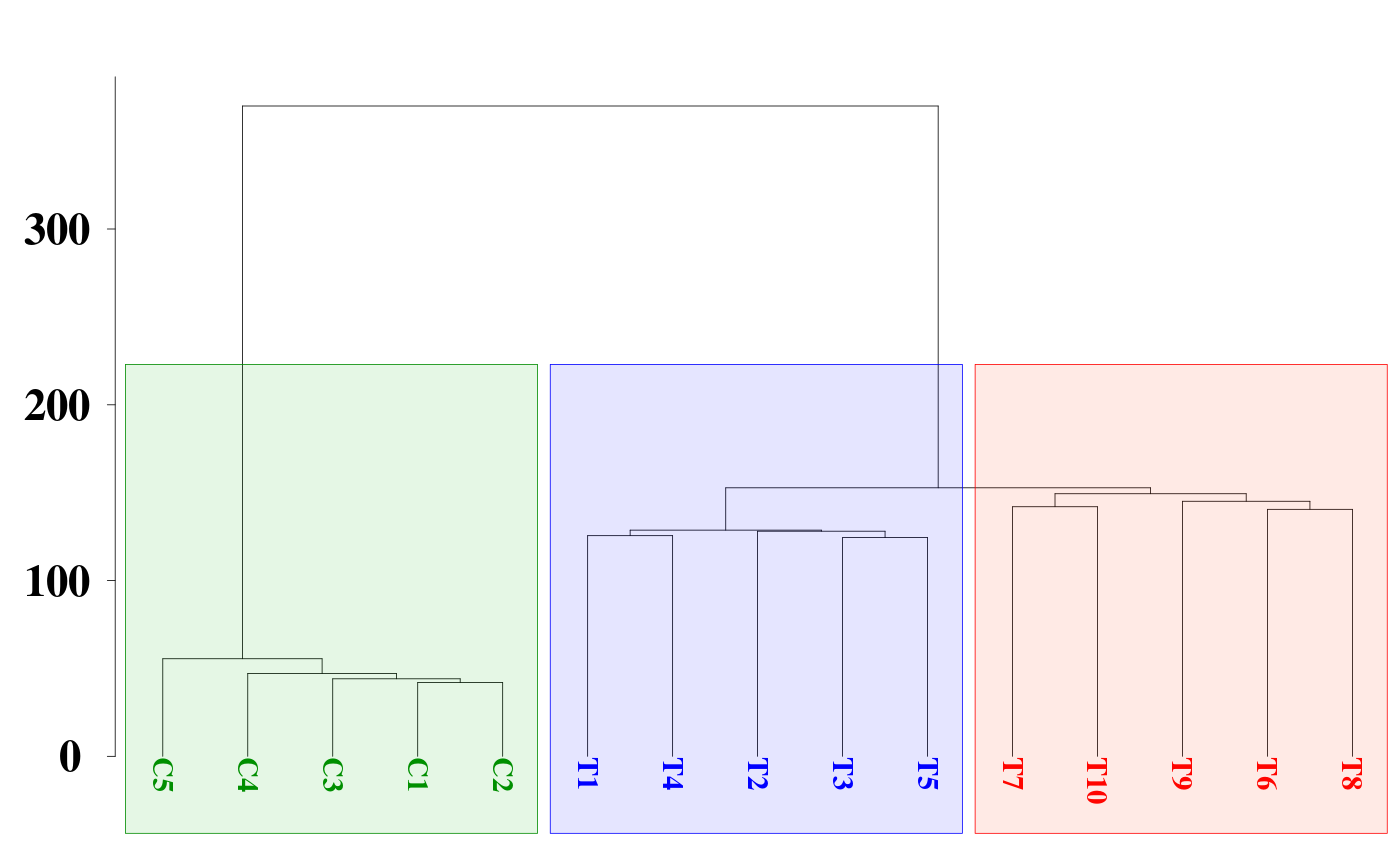
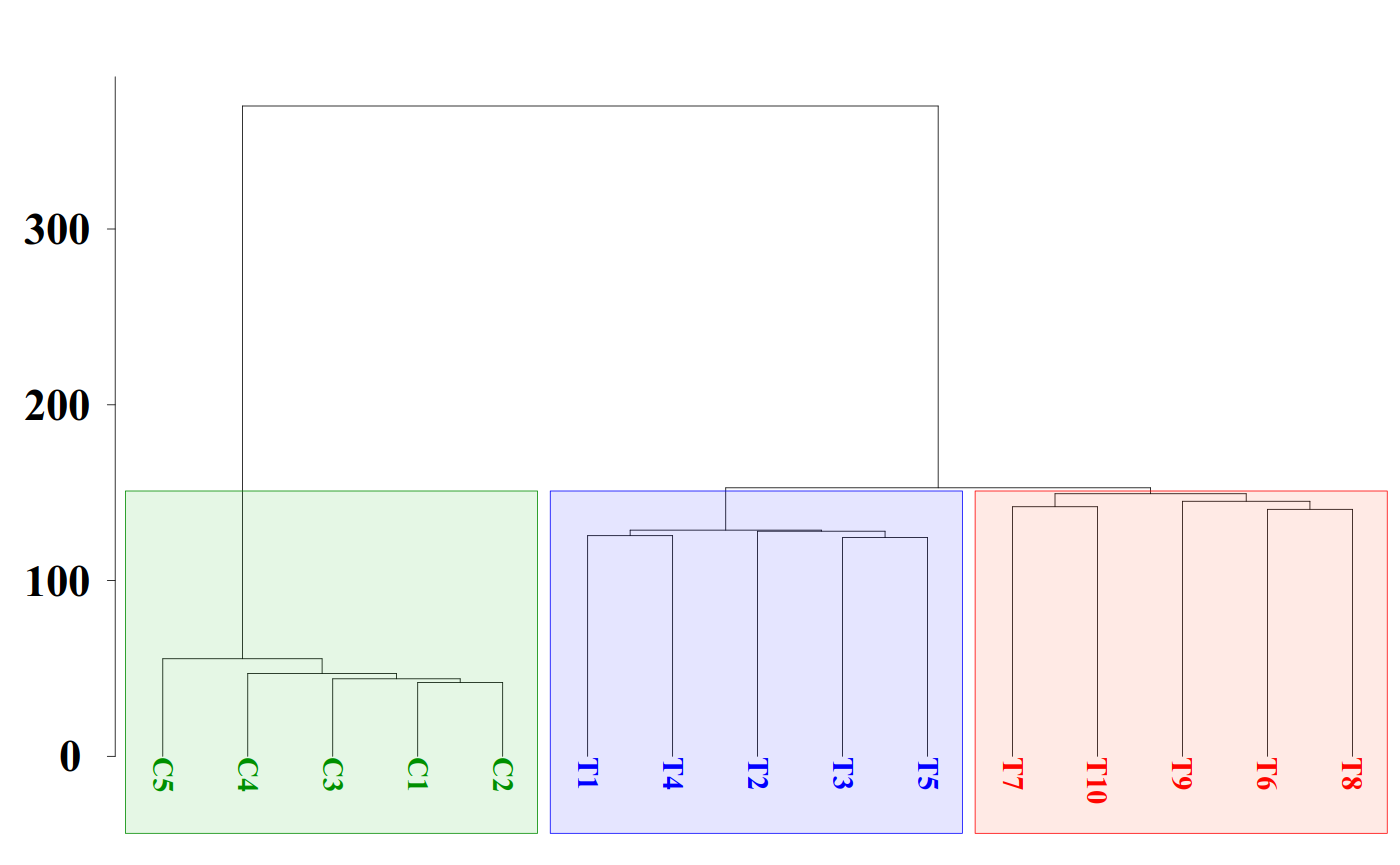
update vignette for pca-lda

diff --git a/methylit/articles/pca_lda_with_methylit.html b/methylit/articles/pca_lda_with_methylit.html
@@ -123,18 +123,16 @@
     <div class="page-header toc-ignore">
       <h1 data-toc-skip>Principal Components and Linear Discriminant Analyses with Methyl-IT</h1>
             <h3 class="subtitle"><h1>
-</h1></h3>
-<p>A <a href="https://github.com/genomaths/MethylIT">Methyl-IT</a> user guide</p>
+A <a href="https://github.com/genomaths/MethylIT">Methyl-IT</a> user guide</h1></h3>
                         <h4 class="author">
-<div style="white-space: pre-line;">Robersy Sanchez
-<a href="mailto:rus547@psu.edu">rus547@psu.edu</a>
+<div class="line-block">Robersy Sanchez<br><a href="mailto:rus547@psu.edu" class="email">rus547@psu.edu</a><br>
 Mackenzie’s lab</div>
-<div style="white-space: pre-line;">Department of Biology and Plant Science.
-Pennsylvania State University, University Park, PA 16802
+<div class="line-block">Department of Biology and Plant Science.<br>
+Pennsylvania State University, University Park, PA 16802<br>
 Maintainer: Robersy Sanchez</div>
 </h4>
             
-            <h4 class="date">17 April 2020</h4>
+            <h4 class="date">24 April 2020</h4>
       
       <small class="dont-index">Source: <a href="https://github.com/genomaths/MethylIT/blob/master/vignettes/pca_lda_with_methylit.Rmd"><code>vignettes/pca_lda_with_methylit.Rmd</code></a></small>
       <div class="hidden name"><code>pca_lda_with_methylit.Rmd</code></div>
@@ -144,7 +142,7 @@ Maintainer: Robersy Sanchez</div>
     
         <div class="abstract">
       <p class="abstract">Abstract</p>
-      <p>When methylation analysis is intended for diagnostic/prognostic purposes, for example, in clinical applications for patient diagnostics, to know whether the patient would be in healthy or disease stage we would like to have a good predictor tool in our side. It turns out that classical machine learning (ML) tools like hierarchical clustering, principal components and linear discriminant analysis can help us to reach such a goal. The current Methyl-IT downstream analysis is equipped with the mentioned ML tools.</p>
+      When methylation analysis is intended for diagnostic/prognostic purposes, for example, in clinical applications for patient diagnostics, to know whether the patient would be in healthy or disease stage we would like to have a good predictor tool in our side. It turns out that classical machine learning (ML) tools like hierarchical clustering, principal components and linear discriminant analysis can help us to reach such a goal. The current Methyl-IT downstream analysis is equipped with the mentioned ML tools.
     </div>
     
 <style type="text/css">
@@ -222,7 +220,7 @@ pre { /* Code block - determines code spacing between lines */
 <h1 class="hasAnchor">
 <a href="#data-generation" class="anchor"></a>Data generation</h1>
 <p>For the current example on methylation analysis with Methyl-IT we will use simulated data. Read-count matrices of methylated and unmethylated cytosine are generated with MethylIT.utils function <a href="https://genomaths.github.io/MethylIT_utils_HTML_Manual/simulateCounts.html">simulateCounts</a>. A basic example generating datasets is given in the web page: <a href="https://genomaths.github.io/Methylation_analysis_with_Methyl-IT.html">Methylation analysis with Methyl-IT</a></p>
-<div class="sourceCode"><html><body><pre class="r"><span class="fu"><a href="https://rdrr.io/r/base/library.html">library</a></span>(<span class="no">MethylIT</span>)
+<div class="sourceCode" id="cb1"><html><body><pre class="r"><span class="fu"><a href="https://rdrr.io/r/base/library.html">library</a></span>(<span class="no">MethylIT</span>)
 <span class="fu"><a href="https://rdrr.io/r/base/library.html">library</a></span>(<span class="no">MethylIT.utils</span>)
 <span class="fu"><a href="https://rdrr.io/r/base/library.html">library</a></span>(<span class="no">ggplot2</span>)
 <span class="fu"><a href="https://rdrr.io/r/base/library.html">library</a></span>(<span class="no">ape</span>)
@@ -257,7 +255,7 @@ pre { /* Code block - determines code spacing between lines */
                         <span class="kw">beta</span> <span class="kw">=</span> <span class="fl">0.5</span>, <span class="kw">size</span> <span class="kw">=</span> <span class="fl">50</span>, <span class="kw">theta</span> <span class="kw">=</span> <span class="fl">4.5</span>,
                         <span class="kw">sample.ids</span> <span class="kw">=</span> <span class="no">treatment.nam2</span>)</pre></body></html></div>
 <p>A reference sample (virtual individual) is created using individual samples from the control population using function <a href="https://genomaths.github.io/MethylIT_HTML_Manual/poolFromGRlist.html">poolFromGRlist</a>. The reference sample is further used to compute the information divergences of methylation levels, <span class="math inline">\(TV_d\)</span> and <span class="math inline">\(H\)</span>, with function <a href="https://genomaths.github.io/MethylIT_HTML_Manual/estimateDivergence.html">estimateDivergence</a>. This is a first fundamental step to remove the background noise (fluctuations) generated by the inherent stochasticity of the molecular processes in the cells.</p>
-<div class="sourceCode"><html><body><pre class="r"><span class="co"># === Methylation level divergences ===</span>
+<div class="sourceCode" id="cb2"><html><body><pre class="r"><span class="co"># === Methylation level divergences ===</span>
 <span class="co"># Reference sample</span>
 <span class="no">ref</span> <span class="kw">=</span> <span class="fu"><a href="../reference/poolFromGRlist.html">poolFromGRlist</a></span>(<span class="no">ref0</span>, <span class="kw">stat</span> <span class="kw">=</span> <span class="st">"mean"</span>, <span class="kw">num.cores</span> <span class="kw">=</span> <span class="fl">4L</span>, <span class="kw">verbose</span> <span class="kw">=</span> <span class="fl">FALSE</span>)
 
@@ -268,7 +266,7 @@ pre { /* Code block - determines code spacing between lines */
 <span class="no">divs</span> <span class="kw">=</span> <span class="fu"><a href="../reference/lapply.html">lapply</a></span>(<span class="no">divs</span>, <span class="kw">function</span>(<span class="no">div</span>) <span class="no">div</span>[ <span class="fu"><a href="https://rdrr.io/r/base/MathFun.html">abs</a></span>(<span class="no">div</span>$<span class="no">hdiv</span>) <span class="kw">&gt;</span> <span class="fl">0</span> ], <span class="kw">keep.attr</span> <span class="kw">=</span> <span class="fl">TRUE</span>)
 <span class="fu"><a href="https://rdrr.io/r/base/names.html">names</a></span>(<span class="no">divs</span>) <span class="kw">&lt;-</span> <span class="fu"><a href="https://rdrr.io/r/base/names.html">names</a></span>(<span class="no">divs</span>)</pre></body></html></div>
 <p>To get some statistical description about the sample is useful. Here, empirical critical values for the probability distribution of <span class="math inline">\(H\)</span> and <span class="math inline">\(TV\)</span> can is obtained using <em>quantile</em> function from the R package <em>stats</em>.</p>
-<div class="sourceCode"><html><body><pre class="r"><span class="no">critical.val</span> <span class="kw">&lt;-</span> <span class="fu"><a href="https://rdrr.io/r/base/do.call.html">do.call</a></span>(<span class="no">rbind</span>, <span class="fu"><a href="../reference/lapply.html">lapply</a></span>(<span class="no">divs</span>, <span class="kw">function</span>(<span class="no">x</span>) {
+<div class="sourceCode" id="cb3"><html><body><pre class="r"><span class="no">critical.val</span> <span class="kw">&lt;-</span> <span class="fu"><a href="https://rdrr.io/r/base/do.call.html">do.call</a></span>(<span class="no">rbind</span>, <span class="fu"><a href="../reference/lapply.html">lapply</a></span>(<span class="no">divs</span>, <span class="kw">function</span>(<span class="no">x</span>) {
   <span class="no">x</span> <span class="kw">&lt;-</span> <span class="no">x</span>[<span class="no">x</span>$<span class="no">hdiv</span> <span class="kw">&gt;</span> <span class="fl">0</span>]
   <span class="no">hd.95</span> <span class="kw">=</span> <span class="fu"><a href="https://rdrr.io/r/stats/quantile.html">quantile</a></span>(<span class="no">x</span>$<span class="no">hdiv</span>, <span class="fl">0.95</span>)
   <span class="no">tv.95</span> <span class="kw">=</span> <span class="fu"><a href="https://rdrr.io/r/stats/quantile.html">quantile</a></span>(<span class="fu"><a href="https://rdrr.io/r/base/MathFun.html">abs</a></span>(<span class="no">x</span>$<span class="no">bay.TV</span>), <span class="fl">0.95</span>)
@@ -297,10 +295,10 @@ pre { /* Code block - determines code spacing between lines */
 <a href="#modeling-the-methylation-signal" class="anchor"></a>Modeling the methylation signal</h1>
 <p>Here, the methylation signal is expressed in terms of Hellinger divergence of methylation levels. Here, the signal distribution is modelled by a Weibull probability distribution model. Basically, the model could be a member of the generalized gamma distribution family. For example, it could be gamma distribution, Weibull, or log-normal. To describe the signal, we may prefer a model with a cross-validations: R.Cross.val &gt; 0.95. Cross-validations for the nonlinear regressions are performed in each methylome as described in <span class="citation">(Stevens 2009)</span>. The non-linear fit is performed through the function <a href="https://genomaths.github.io/MethylIT_HTML_Manual/nonlinearFitDist.html">nonlinearFitDist</a></p>
 <p>The best model excluding “GGamma3P” model, for which the computation is computationally expensive:</p>
-<div class="sourceCode"><html><body><pre class="r"><span class="no">d</span> <span class="kw">&lt;-</span> <span class="fu"><a href="https://rdrr.io/r/base/c.html">c</a></span>(<span class="st">"Weibull2P"</span>, <span class="st">"Weibull3P"</span>, <span class="st">"Gamma2P"</span>, <span class="st">"Gamma3P"</span>)
+<div class="sourceCode" id="cb5"><html><body><pre class="r"><span class="no">d</span> <span class="kw">&lt;-</span> <span class="fu"><a href="https://rdrr.io/r/base/c.html">c</a></span>(<span class="st">"Weibull2P"</span>, <span class="st">"Weibull3P"</span>, <span class="st">"Gamma2P"</span>, <span class="st">"Gamma3P"</span>)
 <span class="no">gof</span> <span class="kw">&lt;-</span> <span class="fu"><a href="../reference/gofReport.html">gofReport</a></span>(<span class="kw">HD</span> <span class="kw">=</span> <span class="no">divs</span>, <span class="kw">column</span> <span class="kw">=</span> <span class="fl">9L</span>, <span class="kw">model</span> <span class="kw">=</span> <span class="no">d</span>, <span class="kw">num.cores</span> <span class="kw">=</span> <span class="fl">6L</span>,
                     <span class="kw">output</span> <span class="kw">=</span> <span class="st">"all"</span>, <span class="kw">verbose</span> <span class="kw">=</span> <span class="fl">FALSE</span>)</pre></body></html></div>
-<div class="sourceCode"><html><body><pre class="r"><span class="no">gof</span>$<span class="no">bestModel</span></pre></body></html></div>
+<div class="sourceCode" id="cb6"><html><body><pre class="r"><span class="no">gof</span>$<span class="no">bestModel</span></pre></body></html></div>
 <pre><code>##          C1          C2          C3          C4          C5          T1 
 ## "Weibull3P" "Weibull3P" "Weibull3P" "Weibull3P" "Weibull3P" "Weibull3P" 
 ##          T2          T3          T4          T5          T6          T7 
@@ -308,23 +306,23 @@ pre { /* Code block - determines code spacing between lines */
 ##          T8          T9         T10 
 ## "Weibull3P" "Weibull3P" "Weibull3P"</code></pre>
 <p>Although we did not included the main member of the generalized gamma distribution family (“GGamma3P”), the Cross-validations correlation coefficient <em>w3p_R.Cross.val</em> values above 0.99 gives us some peace of mind on our confidence on the model prediction power/performance when confronted with external data sets (AIC and BIC are not conceived to provide such an information).</p>
-<div class="sourceCode"><html><body><pre class="r"><span class="no">gof</span>$<span class="no">stats</span></pre></body></html></div>
+<div class="sourceCode" id="cb8"><html><body><pre class="r"><span class="no">gof</span>$<span class="no">stats</span></pre></body></html></div>
 <pre><code>##       w2p_AIC w2p_R.Cross.val   w3p_AIC w3p_R.Cross.val   g2p_AIC
-## C1  -172642.0       0.9994638 -174557.7       0.9994974 -164820.3
-## C2  -175594.8       0.9995131 -177009.1       0.9995358 -167532.6
-## C3  -177238.3       0.9995420 -178755.3       0.9995651 -169774.1
+## C1  -172642.0       0.9994639 -174557.7       0.9994974 -164820.3
+## C2  -175594.8       0.9995132 -177009.1       0.9995356 -167532.6
+## C3  -177238.3       0.9995421 -178755.3       0.9995652 -169774.1
 ## C4  -219269.6       0.9994956 -264072.9       0.9998549 -206343.4
-## C5  -217500.5       0.9994371 -273018.4       0.9998799 -205306.2
-## T1  -168079.8       0.9972702 -225575.8       0.9994668 -160887.9
-## T2  -167286.1       0.9972726 -226888.2       0.9995015 -160748.6
-## T3  -170301.7       0.9974337 -227799.2       0.9995011 -163997.9
-## T4  -168551.1       0.9973214 -225182.0       0.9994659 -162169.6
-## T5  -167122.0       0.9972263 -227207.9       0.9994984 -160694.2
-## T6  -173245.4       0.9971881 -229256.8       0.9993947 -165656.4
-## T7  -170905.0       0.9970146 -228452.3       0.9993818 -163341.9
-## T8  -171372.5       0.9970755 -229286.8       0.9994007 -163649.4
-## T9  -170096.9       0.9969618 -227490.3       0.9993671 -162250.4
-## T10 -171266.7       0.9970279 -228041.3       0.9993710 -163857.2
+## C5  -217500.5       0.9994372 -273018.4       0.9998795 -205306.2
+## T1  -168079.8       0.9972701 -225575.8       0.9994668 -160887.9
+## T2  -167286.1       0.9972726 -226888.2       0.9995013 -160748.6
+## T3  -170301.7       0.9974336 -227799.2       0.9995012 -163997.9
+## T4  -168551.1       0.9973218 -225182.0       0.9994659 -162169.6
+## T5  -167122.0       0.9972264 -227207.9       0.9994985 -160694.2
+## T6  -173245.4       0.9971876 -229256.8       0.9993947 -165656.4
+## T7  -170905.0       0.9970144 -228452.3       0.9993819 -163341.9
+## T8  -171372.5       0.9970764 -229286.8       0.9994006 -163649.4
+## T9  -170096.9       0.9969616 -227490.3       0.9993672 -162250.4
+## T10 -171266.7       0.9970285 -228041.3       0.9993708 -163857.2
 ##     g2p_R.Cross.val   g3p_AIC g3p_R.Cross.val      bestModel
 ## C1        0.9993929 -166320.3       0.9994541            w3p
 ## C2        0.9994499 -168751.9       0.9994939            w3p
@@ -347,7 +345,7 @@ pre { /* Code block - determines code spacing between lines */
 <a href="#estimation-of-an-optimal-cutpoint-to-discriminate-the-signal-induced-by-the-treatment" class="anchor"></a>Estimation of an optimal cutpoint to discriminate the signal induced by the treatment</h1>
 <p>The above statistical description of the dataset (evidently) suggests that there two main groups: control and treatments, while treatment group would split into two subgroups of samples. In the current case, to search for a good cutpoint, we do not need to use all the samples. The critical value <span class="math inline">\(H_{\alpha=0.05}=33.51223\)</span> suggests that any optimal cutpoint for the subset of samples T1 to T5 will be optimal for the samples T6 to T10 as well.</p>
 <p>Below, we are letting the PCA+LDA model classifier to take the decision on whether a differentially methylated cytosine position is a treatment DMP. To do it, Methyl-IT function <a href="https://genomaths.github.io/MethylIT_HTML_Manual/getPotentialDIMP.html">getPotentialDIMP</a> is used to get methylation signal probabilities of the observed <span class="math inline">\(H\)</span> values for all cytosine site (alpha = 1), in accordance with the 2-parameter Weibull distribution model. Next, this information will be used to identify DMPs using Methyl-IT function <a href="https://genomaths.github.io/MethylIT_HTML_Manual/estimateCutPoint.html">estimateCutPoint</a>. Cytosine positions with <span class="math inline">\(H\)</span> values above the cutpoint are considered DMPs. Finally, a PCA + QDA model classifier will be fitted to classify DMPs into two classes: DMPs from control and those from treatment.</p>
-<div class="sourceCode"><html><body><pre class="r"><span class="no">dmps</span> <span class="kw">&lt;-</span> <span class="fu"><a href="../reference/getPotentialDIMP.html">getPotentialDIMP</a></span>(<span class="kw">LR</span> <span class="kw">=</span> <span class="no">divs</span>,
+<div class="sourceCode" id="cb10"><html><body><pre class="r"><span class="no">dmps</span> <span class="kw">&lt;-</span> <span class="fu"><a href="../reference/getPotentialDIMP.html">getPotentialDIMP</a></span>(<span class="kw">LR</span> <span class="kw">=</span> <span class="no">divs</span>,
                          <span class="kw">nlms</span> <span class="kw">=</span> <span class="no">gof</span>$<span class="no">nlms</span>,  <span class="kw">div.col</span> <span class="kw">=</span> <span class="fl">9L</span>,
                          <span class="kw">tv.cut</span> <span class="kw">=</span> <span class="fl">0.461</span>, <span class="kw">tv.col</span> <span class="kw">=</span> <span class="fl">8</span>, <span class="kw">alpha</span> <span class="kw">=</span> <span class="fl">0.05</span>,
                          <span class="kw">dist.name</span> <span class="kw">=</span> <span class="no">gof</span>$<span class="no">bestModel</span>)
@@ -391,7 +389,7 @@ pre { /* Code block - determines code spacing between lines */
 ## cutpData           1      -none-          logical</code></pre>
 <p>In this case, the cutpoint <span class="math inline">\(H_{cutpoint}=92.138\)</span> is lower from what is expected from the higher treatment empirical <span class="math inline">\(H_{\alpha = 0.05}^{TT_{Emp}}=120.45119\)</span> critical value: <span class="math inline">\(H_{cutpoint} &lt; H_{\alpha = 0.05}^{TT_{Emp}}\)</span>.</p>
 <p>The model performance in in the test dataset is:</p>
-<div class="sourceCode"><html><body><pre class="r"><span class="no">cutp</span>$<span class="no">testSetPerformance</span></pre></body></html></div>
+<div class="sourceCode" id="cb12"><html><body><pre class="r"><span class="no">cutp</span>$<span class="no">testSetPerformance</span></pre></body></html></div>
 <pre><code>## Confusion Matrix and Statistics
 ## 
 ##           Reference
@@ -424,13 +422,13 @@ pre { /* Code block - determines code spacing between lines */
 <h1 class="hasAnchor">
 <a href="#representing-individual-samples-as-vectors-from-the-n-dimensional-space" class="anchor"></a>Representing individual samples as vectors from the <em>N</em>-dimensional space</h1>
 <p>The above cutpoint can be used to identify DMPs from control and treatment. The PCA+QDA model classifier can be used any time to discriminate control DMPs from those treatment. DMPs are retrieved using <a href="https://genomaths.github.io/MethylIT_HTML_Manual/selectDIMP.html">selectDIMP</a> function (<code>selectDIMP</code>):</p>
-<div class="sourceCode"><html><body><pre class="r"><span class="no">dmps</span> <span class="kw">&lt;-</span> <span class="fu"><a href="../reference/selectDIMP.html">selectDIMP</a></span>(<span class="kw">LR</span> <span class="kw">=</span> <span class="no">divs</span>, <span class="kw">div.col</span> <span class="kw">=</span> <span class="fl">9L</span>, <span class="kw">cutpoint</span> <span class="kw">=</span> <span class="no">cutp</span>$<span class="no">cutpoint</span>,
+<div class="sourceCode" id="cb14"><html><body><pre class="r"><span class="no">dmps</span> <span class="kw">&lt;-</span> <span class="fu"><a href="../reference/selectDIMP.html">selectDIMP</a></span>(<span class="kw">LR</span> <span class="kw">=</span> <span class="no">divs</span>, <span class="kw">div.col</span> <span class="kw">=</span> <span class="fl">9L</span>, <span class="kw">cutpoint</span> <span class="kw">=</span> <span class="no">cutp</span>$<span class="no">cutpoint</span>,
                    <span class="kw">tv.cut</span> <span class="kw">=</span> <span class="fl">0.34</span>, <span class="kw">tv.col</span> <span class="kw">=</span> <span class="fl">7</span>)
 <span class="fu"><a href="https://rdrr.io/r/base/lapply.html">sapply</a></span>(<span class="no">dmps</span>,<span class="no">length</span>)</pre></body></html></div>
 <pre><code>##   C1   C2   C3   C4   C5   T1   T2   T3   T4   T5   T6   T7   T8   T9  T10 
 ##  450  428  410  522  578 2808 2651 2632 2735 2768 3170 3233 3210 3318 3239</code></pre>
 <p>Next, to represent individual samples as vectors from the <em>N</em>-dimensional space, we can use <a href="https://genomaths.github.io/MethylIT_utils_HTML_Manual/getGRegionsStat-methods.html">getGRegionsStat</a> function from <a href="https://github.com/genomaths/MethylIT.utils">MethylIT.utils</a> R package. Here, the simulated “chromosome” is split into regions of 450bp non-overlapping windows. and the <em>density</em> of Hellinger divergences values is taken for each windows.</p>
-<div class="sourceCode"><html><body><pre class="r"><span class="no">ns</span> <span class="kw">&lt;-</span> <span class="fu"><a href="https://rdrr.io/r/base/names.html">names</a></span>(<span class="no">dmps</span>)
+<div class="sourceCode" id="cb16"><html><body><pre class="r"><span class="no">ns</span> <span class="kw">&lt;-</span> <span class="fu"><a href="https://rdrr.io/r/base/names.html">names</a></span>(<span class="no">dmps</span>)
 <span class="no">DMRs</span> <span class="kw">&lt;-</span> <span class="fu"><a href="https://rdrr.io/pkg/MethylIT.utils/man/getGRegionsStat-methods.html">getGRegionsStat</a></span>(<span class="kw">GR</span> <span class="kw">=</span> <span class="no">dmps</span>, <span class="kw">win.size</span> <span class="kw">=</span> <span class="fl">150</span>, <span class="kw">step.size</span> <span class="kw">=</span> <span class="fl">150</span>,
                         <span class="kw">stat</span> <span class="kw">=</span> <span class="st">"density"</span>, <span class="kw">column</span> <span class="kw">=</span> <span class="fl">9L</span>, <span class="kw">scaling</span> <span class="kw">=</span> <span class="fl">1</span>)
 <span class="fu"><a href="https://rdrr.io/r/base/names.html">names</a></span>(<span class="no">DMRs</span>) <span class="kw">&lt;-</span> <span class="no">ns</span>
@@ -440,7 +438,7 @@ pre { /* Code block - determines code spacing between lines */
 <h1 class="hasAnchor">
 <a href="#hierarchical-clustering" class="anchor"></a>Hierarchical Clustering</h1>
 <p>Hierarchical clustering (HC) is an unsupervised machine learning approach. HC can provide an initial estimation of the number of possible groups and information on their members. However, the effectivity of HC will depend on the experimental dataset, the metric used, and the agglomeration algorithm applied. For an unknown reason (and based on the personal experience of the author working in numerical taxonomy), Ward’s agglomeration algorithm performs much better on biological experimental datasets than the rest of the available algorithms like UPGMA, UPGMC, etc.</p>
-<div class="sourceCode"><html><body><pre class="r"><span class="no">dmgm</span> <span class="kw">&lt;-</span> <span class="fu"><a href="../reference/uniqueGRanges.html">uniqueGRanges</a></span>(<span class="no">DMRs</span>, <span class="kw">verbose</span> <span class="kw">=</span> <span class="fl">FALSE</span>)
+<div class="sourceCode" id="cb17"><html><body><pre class="r"><span class="no">dmgm</span> <span class="kw">&lt;-</span> <span class="fu"><a href="../reference/uniqueGRanges.html">uniqueGRanges</a></span>(<span class="no">DMRs</span>, <span class="kw">verbose</span> <span class="kw">=</span> <span class="fl">FALSE</span>)
 <span class="no">dmgm</span> <span class="kw">&lt;-</span> <span class="fu"><a href="https://rdrr.io/r/base/t.html">t</a></span>(<span class="fu"><a href="https://rdrr.io/r/base/matrix.html">as.matrix</a></span>(<span class="fu">mcols</span>(<span class="no">dmgm</span>)))
 <span class="fu"><a href="https://rdrr.io/r/base/colnames.html">rownames</a></span>(<span class="no">dmgm</span>) <span class="kw">&lt;-</span> <span class="no">ns</span>
 <span class="no">sampleNames</span> <span class="kw">&lt;-</span> <span class="no">ns</span>
@@ -451,7 +449,7 @@ pre { /* Code block - determines code spacing between lines */
 <div id="dendrogram" class="section level2">
 <h2 class="hasAnchor">
 <a href="#dendrogram" class="anchor"></a>Dendrogram</h2>
-<div class="sourceCode"><html><body><pre class="r"><span class="no">colors</span> <span class="kw">=</span> <span class="no">sampleNames</span>
+<div class="sourceCode" id="cb18"><html><body><pre class="r"><span class="no">colors</span> <span class="kw">=</span> <span class="no">sampleNames</span>
 <span class="no">colors</span>[<span class="fu"><a href="https://rdrr.io/r/base/grep.html">grep</a></span>(<span class="st">"C"</span>, <span class="no">colors</span>)] <span class="kw">&lt;-</span> <span class="st">"green4"</span>
 <span class="no">colors</span>[<span class="fu"><a href="https://rdrr.io/r/base/grep.html">grep</a></span>(<span class="st">"T[6-9]{1}"</span>, <span class="no">colors</span>)] <span class="kw">&lt;-</span> <span class="st">"red"</span>
 <span class="no">colors</span>[<span class="fu"><a href="https://rdrr.io/r/base/grep.html">grep</a></span>(<span class="st">"T10"</span>, <span class="no">colors</span>)] <span class="kw">&lt;-</span> <span class="st">"red"</span>
@@ -467,7 +465,7 @@ pre { /* Code block - determines code spacing between lines */
 <span class="fu"><a href="https://rdrr.io/pkg/ape/man/axisPhylo.html">axisPhylo</a></span>( <span class="fl">2</span>, <span class="kw">las</span> <span class="kw">=</span> <span class="fl">1</span>, <span class="kw">lwd</span> <span class="kw">=</span> <span class="fl">0.4</span>, <span class="kw">cex.axis</span> <span class="kw">=</span> <span class="fl">1.4</span>, <span class="kw">hadj</span> <span class="kw">=</span> <span class="fl">0.8</span>, <span class="kw">tck</span> <span class="kw">=</span> -<span class="fl">0.01</span> )
 <span class="co">## cuts = c(xleft, ybottom, xright, ytop)</span>
 <span class="fu"><a href="https://rdrr.io/pkg/MethylIT.utils/man/hclust_rect.html">hclust_rect</a></span>(<span class="no">hc.rsq</span>, <span class="kw">k</span> <span class="kw">=</span> <span class="fl">3L</span>, <span class="kw">border</span> <span class="kw">=</span> <span class="fu"><a href="https://rdrr.io/r/base/c.html">c</a></span>(<span class="st">"green4"</span>, <span class="st">"blue"</span>, <span class="st">"red"</span>),
-            <span class="kw">color</span> <span class="kw">=</span> <span class="no">clusters.color</span>, <span class="kw">cuts</span> <span class="kw">=</span> <span class="fu"><a href="https://rdrr.io/r/base/c.html">c</a></span>(<span class="fl">0.56</span>, <span class="fl">1.4</span>, <span class="fl">0.41</span>, <span class="fl">34</span>))</pre></body></html></div>
+            <span class="kw">color</span> <span class="kw">=</span> <span class="no">clusters.color</span>, <span class="kw">cuts</span> <span class="kw">=</span> <span class="fu"><a href="https://rdrr.io/r/base/c.html">c</a></span>(<span class="fl">0.56</span>, <span class="fl">1.4</span>, <span class="fl">0.41</span>, <span class="fl">106</span>))</pre></body></html></div>
 <p><img src="pca_lda_with_methylit_files/figure-html/dendrogram-1.png" width="700"></p>
 <p>Here, we have use function <a href="https://www.rdocumentation.org/packages/ape/versions/5.3/topics/as.phylo">as.phylo</a> from the R package <a href="https://www.rdocumentation.org/packages/ape/versions/5.3">ape</a> for better dendrogram visualization and function <a href="https://genomaths.github.io/MethylIT_utils_HTML_Manual/hclust_rect.html">hclust_rect</a> from <a href="https://github.com/genomaths/MethylIT.utils">MethylIT.utils</a> R package to draw rectangles with background colors around the branches of a dendrogram highlighting the corresponding clusters.</p>
 </div>
@@ -477,7 +475,7 @@ pre { /* Code block - determines code spacing between lines */
 <a href="#pca-lda" class="anchor"></a>PCA + LDA</h1>
 <p>MethylIT function <a href="https://genomaths.github.io/MethylIT_HTML_Manual/pcaLDA.html">pcaLDA</a> will be used to perform the PCA and PCA + LDA analyses. The function returns a list of two objects: 1) ‘lda’: an object of class ‘lda’ from package ‘MASS’. 2) ‘pca’: an object of class ‘prcomp’ from package ‘stats’. For information on how to use these objects see ?lda and ?prcomp.</p>
 <p>Unlike hierarchical clustering (HC), LDA is a supervised machine learning approach. So, we must provide a prior classification of the individuals, which can be derived, for example, from the HC, or from a previous exploratory analysis with PCA.</p>
-<div class="sourceCode"><html><body><pre class="r"><span class="co"># A prior classification derived from HC</span>
+<div class="sourceCode" id="cb19"><html><body><pre class="r"><span class="co"># A prior classification derived from HC</span>
 <span class="no">grps</span> <span class="kw">&lt;-</span> <span class="fu"><a href="https://rdrr.io/r/stats/cutree.html">cutree</a></span>(<span class="no">hc</span>, <span class="kw">k</span> <span class="kw">=</span> <span class="fl">3</span>)
 <span class="no">grps</span>[<span class="fu"><a href="https://rdrr.io/r/base/grep.html">grep</a></span>(<span class="fl">1</span>, <span class="no">grps</span>)] <span class="kw">&lt;-</span> <span class="st">"CT"</span>
 <span class="no">grps</span>[<span class="fu"><a href="https://rdrr.io/r/base/grep.html">grep</a></span>(<span class="fl">2</span>, <span class="no">grps</span>)] <span class="kw">&lt;-</span> <span class="st">"T1"</span>
@@ -497,7 +495,7 @@ pre { /* Code block - determines code spacing between lines */
 <h2 class="hasAnchor">
 <a href="#pca" class="anchor"></a>PCA</h2>
 <p>The individual coordinates in the principal components (PCs) are returned by function <a href="https://genomaths.github.io/MethylIT_HTML_Manual/pcaLDA.html">pcaLDA</a>. In the current case, based on the cumulative proportion of variance, the two firsts PCs carried about the 84% of the total sample variance and could split the sample into meaningful groups.</p>
-<div class="sourceCode"><html><body><pre class="r"><span class="no">pca.coord</span> <span class="kw">&lt;-</span> <span class="no">ld</span>$<span class="no">pca</span>$<span class="no">x</span>
+<div class="sourceCode" id="cb21"><html><body><pre class="r"><span class="no">pca.coord</span> <span class="kw">&lt;-</span> <span class="no">ld</span>$<span class="no">pca</span>$<span class="no">x</span>
 <span class="no">pca.coord</span></pre></body></html></div>
 <pre><code>##            PC1          PC2         PC3
 ## C1   -63.94820    2.6773997  -2.0772261
@@ -520,7 +518,7 @@ pre { /* Code block - determines code spacing between lines */
 <h2 class="hasAnchor">
 <a href="#graphic-pc1-vs-pc2" class="anchor"></a>Graphic PC1 vs PC2</h2>
 <p>Next, the graphic for individual coordinates in the two firsts PCs can be easily visualized now:</p>
-<div class="sourceCode"><html><body><pre class="r"><span class="no">dt</span> <span class="kw">&lt;-</span> <span class="fu"><a href="https://rdrr.io/r/base/data.frame.html">data.frame</a></span>(<span class="no">pca.coord</span>[, <span class="fl">1</span>:<span class="fl">2</span>], <span class="kw">subgrp</span> <span class="kw">=</span> <span class="no">grps</span>)
+<div class="sourceCode" id="cb23"><html><body><pre class="r"><span class="no">dt</span> <span class="kw">&lt;-</span> <span class="fu"><a href="https://rdrr.io/r/base/data.frame.html">data.frame</a></span>(<span class="no">pca.coord</span>[, <span class="fl">1</span>:<span class="fl">2</span>], <span class="kw">subgrp</span> <span class="kw">=</span> <span class="no">grps</span>)
 
 <span class="no">p0</span> <span class="kw">&lt;-</span> <span class="fu"><a href="https://ggplot2.tidyverse.org/reference/theme.html">theme</a></span>(
   <span class="kw">axis.text.x</span>  <span class="kw">=</span> <span class="fu"><a href="https://ggplot2.tidyverse.org/reference/element.html">element_text</a></span>( <span class="kw">face</span> <span class="kw">=</span> <span class="st">"bold"</span>, <span class="kw">size</span> <span class="kw">=</span> <span class="fl">18</span>, <span class="kw">color</span><span class="kw">=</span><span class="st">"black"</span>,
@@ -558,7 +556,7 @@ pre { /* Code block - determines code spacing between lines */
 <h2 class="hasAnchor">
 <a href="#graphic-ld1-vs-ld2" class="anchor"></a>Graphic LD1 vs LD2</h2>
 <p>In the current case, better resolution is obtained with the linear discriminant functions, which is based on the three firsts PCs. Notice that the number principal components used the LDA step must be lower than the number of individuals (<span class="math inline">\(N\)</span>) divided by 3: <span class="math inline">\(N/3\)</span>.</p>
-<div class="sourceCode"><html><body><pre class="r"><span class="no">ind.coord</span> <span class="kw">&lt;-</span> <span class="fu"><a href="https://rdrr.io/r/stats/predict.html">predict</a></span>(<span class="no">ld</span>, <span class="kw">newdata</span> <span class="kw">=</span> <span class="fu"><a href="https://rdrr.io/r/base/data.frame.html">data.frame</a></span>(<span class="no">dmgm</span>), <span class="kw">type</span> <span class="kw">=</span> <span class="st">"scores"</span>)
+<div class="sourceCode" id="cb24"><html><body><pre class="r"><span class="no">ind.coord</span> <span class="kw">&lt;-</span> <span class="fu"><a href="https://rdrr.io/r/stats/predict.html">predict</a></span>(<span class="no">ld</span>, <span class="kw">newdata</span> <span class="kw">=</span> <span class="fu"><a href="https://rdrr.io/r/base/data.frame.html">data.frame</a></span>(<span class="no">dmgm</span>), <span class="kw">type</span> <span class="kw">=</span> <span class="st">"scores"</span>)
 <span class="no">dt</span> <span class="kw">&lt;-</span> <span class="fu"><a href="https://rdrr.io/r/base/data.frame.html">data.frame</a></span>(<span class="no">ind.coord</span>, <span class="kw">subgrp</span> <span class="kw">=</span> <span class="no">grps</span>)
 
 <span class="no">p0</span> <span class="kw">&lt;-</span> <span class="fu"><a href="https://ggplot2.tidyverse.org/reference/theme.html">theme</a></span>(
@@ -599,7 +597,7 @@ pre { /* Code block - determines code spacing between lines */
 <a href="#references" class="anchor"></a>References</h1>
 <div id="refs">
 <div id="ref-Liese2006">
-<p>Liese, Friedrich, and Igor Vajda. 2006. “On divergences and informations in statistics and information theory.” <em>IEEE Transactions on Information Theory</em> 52 (10): 4394–4412. doi:<a href="https://doi.org/10.1109/TIT.2006.881731">10.1109/TIT.2006.881731</a>.</p>
+<p>Liese, Friedrich, and Igor Vajda. 2006. “On divergences and informations in statistics and information theory.” <em>IEEE Transactions on Information Theory</em> 52 (10): 4394–4412. <a href="https://doi.org/10.1109/TIT.2006.881731">https://doi.org/10.1109/TIT.2006.881731</a>.</p>
 </div>
 <div id="ref-Stevens2009">
 <p>Stevens, James P. 2009. <em>Applied Multivariate Statistics for the Social Sciences</em>. Fifth Edit. Routledge Academic.</p>
@@ -609,13 +607,14 @@ pre { /* Code block - determines code spacing between lines */
 <div id="session-info" class="section level1 unnumbered">
 <h1 class="hasAnchor">
 <a href="#session-info" class="anchor"></a>Session info</h1>
-<p>Here is the output of <code><a href="https://rdrr.io/r/utils/sessionInfo.html">sessionInfo()</a></code> on the system on which this document was compiled running pandoc 1.19.2.1:</p>
-<pre><code>## R version 3.6.0 (2019-04-26)
-## Platform: x86_64-redhat-linux-gnu (64-bit)
-## Running under: CentOS Linux 7 (Core)
+<p>Here is the output of <code><a href="https://rdrr.io/r/utils/sessionInfo.html">sessionInfo()</a></code> on the system on which this document was compiled running pandoc 2.3.1:</p>
+<pre><code>## R version 3.6.3 (2020-02-29)
+## Platform: x86_64-pc-linux-gnu (64-bit)
+## Running under: Ubuntu 18.04.4 LTS
 ## 
 ## Matrix products: default
-## BLAS/LAPACK: /usr/lib64/R/lib/libRblas.so
+## BLAS:   /usr/lib/x86_64-linux-gnu/blas/libblas.so.3.7.1
+## LAPACK: /usr/lib/x86_64-linux-gnu/lapack/liblapack.so.3.7.1
 ## 
 ## locale:
 ##  [1] LC_CTYPE=en_US.UTF-8       LC_NUMERIC=C              
@@ -636,59 +635,60 @@ pre { /* Code block - determines code spacing between lines */
 ## [10] BiocGenerics_0.30.0 
 ## 
 ## loaded via a namespace (and not attached):
-##   [1] colorspace_1.4-1            class_7.3-15               
-##   [3] modeltools_0.2-23           mclust_5.4.5               
-##   [5] rprojroot_1.3-2             XVector_0.24.0             
-##   [7] ArgumentCheck_0.10.2        fs_1.3.2                   
-##   [9] rstudioapi_0.11             farver_2.0.1               
-##  [11] flexmix_2.3-15              bit64_0.9-7                
-##  [13] AnnotationDbi_1.46.1        prodlim_2019.11.13         
-##  [15] lubridate_1.7.4             codetools_0.2-16           
-##  [17] splines_3.6.0               knitr_1.28                 
-##  [19] Formula_1.2-3               pROC_1.16.1                
-##  [21] Rsamtools_2.0.3             caret_6.0-86               
-##  [23] annotate_1.62.0             kernlab_0.9-29             
-##  [25] compiler_3.6.0              backports_1.1.5            
-##  [27] assertthat_0.2.1            Matrix_1.2-18              
-##  [29] htmltools_0.4.0             tools_3.6.0                
-##  [31] gtable_0.3.0                glue_1.3.2                 
-##  [33] GenomeInfoDbData_1.2.1      reshape2_1.4.3             
-##  [35] dplyr_0.8.5                 Rcpp_1.0.4                 
-##  [37] Biobase_2.44.0              pkgdown_1.5.1.9000         
-##  [39] vctrs_0.2.4                 Biostrings_2.52.0          
-##  [41] nlme_3.1-145                iterators_1.0.12           
-##  [43] betareg_3.1-3               lmtest_0.9-37              
-##  [45] timeDate_3043.102           gower_0.2.1                
-##  [47] xfun_0.12                   stringr_1.4.0              
-##  [49] lifecycle_0.1.0             XML_3.99-0.3               
-##  [51] zlibbioc_1.30.0             MASS_7.3-51.5              
-##  [53] zoo_1.8-7                   scales_1.1.0               
-##  [55] ipred_0.9-9                 SummarizedExperiment_1.14.1
-##  [57] sandwich_2.5-1              yaml_2.2.1                 
-##  [59] memoise_1.1.0               rpart_4.1-15               
-##  [61] segmented_1.1-0             stringi_1.4.6              
-##  [63] RSQLite_2.2.0               genefilter_1.66.0          
-##  [65] desc_1.2.0                  foreach_1.4.8              
-##  [67] e1071_1.7-3                 BiocParallel_1.18.1        
-##  [69] lava_1.6.7                  rlang_0.4.5                
-##  [71] pkgconfig_2.0.3             matrixStats_0.56.0         
-##  [73] bitops_1.0-6                evaluate_0.14              
-##  [75] lattice_0.20-40             purrr_0.3.3                
-##  [77] labeling_0.3                GenomicAlignments_1.20.1   
-##  [79] recipes_0.1.10              bit_1.1-15.2               
-##  [81] tidyselect_1.0.0            plyr_1.8.6                 
-##  [83] magrittr_1.5                nls2_0.2                   
-##  [85] R6_2.4.1                    generics_0.0.2             
-##  [87] DelayedArray_0.10.0         DBI_1.1.0                  
-##  [89] pillar_1.4.3                withr_2.1.2                
-##  [91] mixtools_1.2.0              survival_3.1-11            
-##  [93] RCurl_1.98-1.1              nnet_7.3-13                
-##  [95] tibble_2.1.3                crayon_1.3.4               
-##  [97] rmarkdown_2.1               grid_3.6.0                 
-##  [99] minpack.lm_1.2-1            data.table_1.12.8          
-## [101] blob_1.2.1                  ModelMetrics_1.2.2.2       
-## [103] digest_0.6.25               xtable_1.8-4               
-## [105] munsell_0.5.0</code></pre>
+##   [1] colorspace_1.4-1            ellipsis_0.3.0             
+##   [3] class_7.3-16                modeltools_0.2-23          
+##   [5] mclust_5.4.5                rprojroot_1.3-2            
+##   [7] XVector_0.24.0              ArgumentCheck_0.10.2       
+##   [9] fs_1.4.0                    rstudioapi_0.11            
+##  [11] farver_2.0.3                flexmix_2.3-15             
+##  [13] bit64_0.9-7                 AnnotationDbi_1.46.1       
+##  [15] prodlim_2019.11.13          fansi_0.4.1                
+##  [17] lubridate_1.7.4             codetools_0.2-16           
+##  [19] splines_3.6.3               knitr_1.28                 
+##  [21] Formula_1.2-3               pROC_1.16.2                
+##  [23] Rsamtools_2.0.3             caret_6.0-86               
+##  [25] annotate_1.56.1             kernlab_0.9-29             
+##  [27] compiler_3.6.3              backports_1.1.5            
+##  [29] assertthat_0.2.1            Matrix_1.2-18              
+##  [31] cli_2.0.2                   htmltools_0.4.0            
+##  [33] tools_3.6.3                 gtable_0.3.0               
+##  [35] glue_1.3.2                  GenomeInfoDbData_1.2.1     
+##  [37] reshape2_1.4.3              dplyr_0.8.5                
+##  [39] Rcpp_1.0.4                  Biobase_2.44.0             
+##  [41] pkgdown_1.5.0               vctrs_0.2.4                
+##  [43] Biostrings_2.52.0           nlme_3.1-145               
+##  [45] iterators_1.0.12            betareg_3.1-3              
+##  [47] lmtest_0.9-37               timeDate_3043.102          
+##  [49] gower_0.2.1                 xfun_0.12                  
+##  [51] stringr_1.4.0               lifecycle_0.2.0            
+##  [53] XML_3.99-0.3                zlibbioc_1.30.0            
+##  [55] MASS_7.3-51.5               zoo_1.8-7                  
+##  [57] scales_1.1.0                ipred_0.9-9                
+##  [59] SummarizedExperiment_1.14.1 sandwich_2.5-1             
+##  [61] yaml_2.2.1                  memoise_1.1.0              
+##  [63] segmented_1.1-0             rpart_4.1-15               
+##  [65] stringi_1.4.6               RSQLite_2.2.0              
+##  [67] genefilter_1.66.0           desc_1.2.0                 
+##  [69] foreach_1.5.0               e1071_1.7-3                
+##  [71] BiocParallel_1.18.1         lava_1.6.7                 
+##  [73] rlang_0.4.5                 pkgconfig_2.0.3            
+##  [75] matrixStats_0.56.0          bitops_1.0-6               
+##  [77] evaluate_0.14               lattice_0.20-40            
+##  [79] purrr_0.3.3                 labeling_0.3               
+##  [81] GenomicAlignments_1.20.1    recipes_0.1.10             
+##  [83] bit_1.1-15.2                tidyselect_1.0.0           
+##  [85] plyr_1.8.6                  magrittr_1.5               
+##  [87] nls2_0.2                    R6_2.4.1                   
+##  [89] generics_0.0.2              DelayedArray_0.10.0        
+##  [91] DBI_1.1.0                   pillar_1.4.3               
+##  [93] withr_2.1.2                 mixtools_1.2.0             
+##  [95] survival_3.1-11             RCurl_1.98-1.1             
+##  [97] nnet_7.3-13                 tibble_3.0.0               
+##  [99] crayon_1.3.4                rmarkdown_2.1.1            
+## [101] grid_3.6.3                  minpack.lm_1.2-1           
+## [103] data.table_1.12.8           blob_1.2.1                 
+## [105] ModelMetrics_1.2.2.2        digest_0.6.25              
+## [107] xtable_1.8-4                munsell_0.5.0</code></pre>
 </div>
   </div>
 
@@ -707,7 +707,7 @@ pre { /* Code block - determines code spacing between lines */
 </div>
 
 <div class="pkgdown">
-  <p>Site built with <a href="https://pkgdown.r-lib.org/">pkgdown</a> 1.5.1.9000.</p>
+  <p>Site built with <a href="https://pkgdown.r-lib.org/">pkgdown</a> 1.5.0.</p>
 </div>
 
       </footer>
